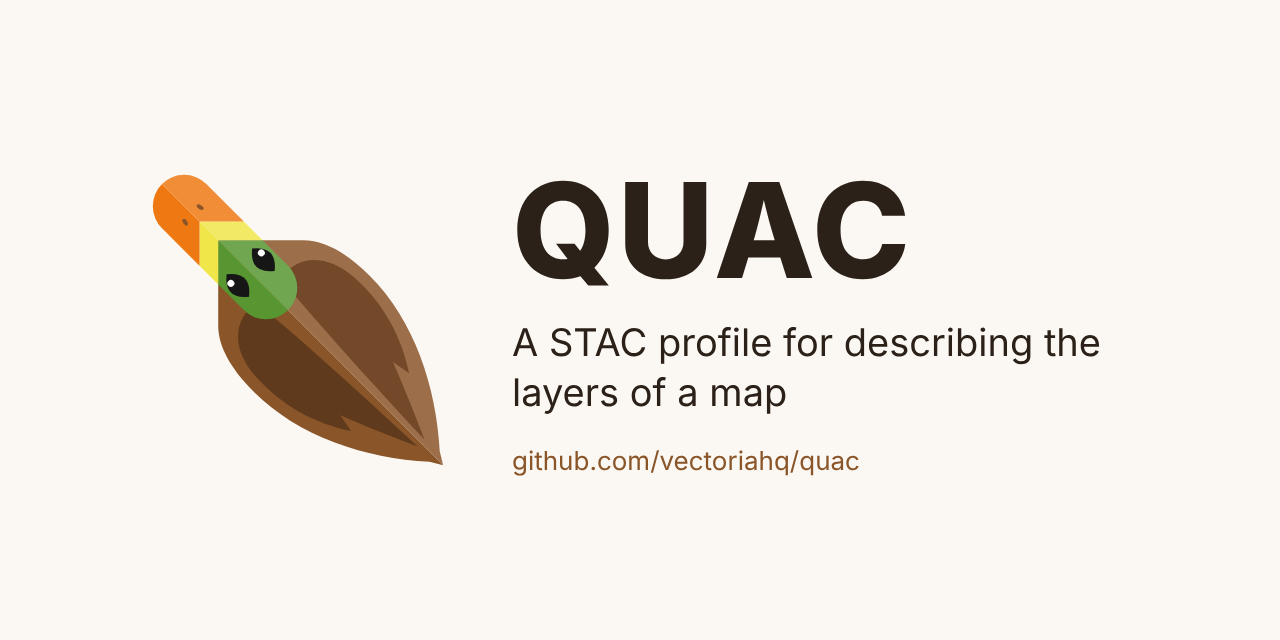
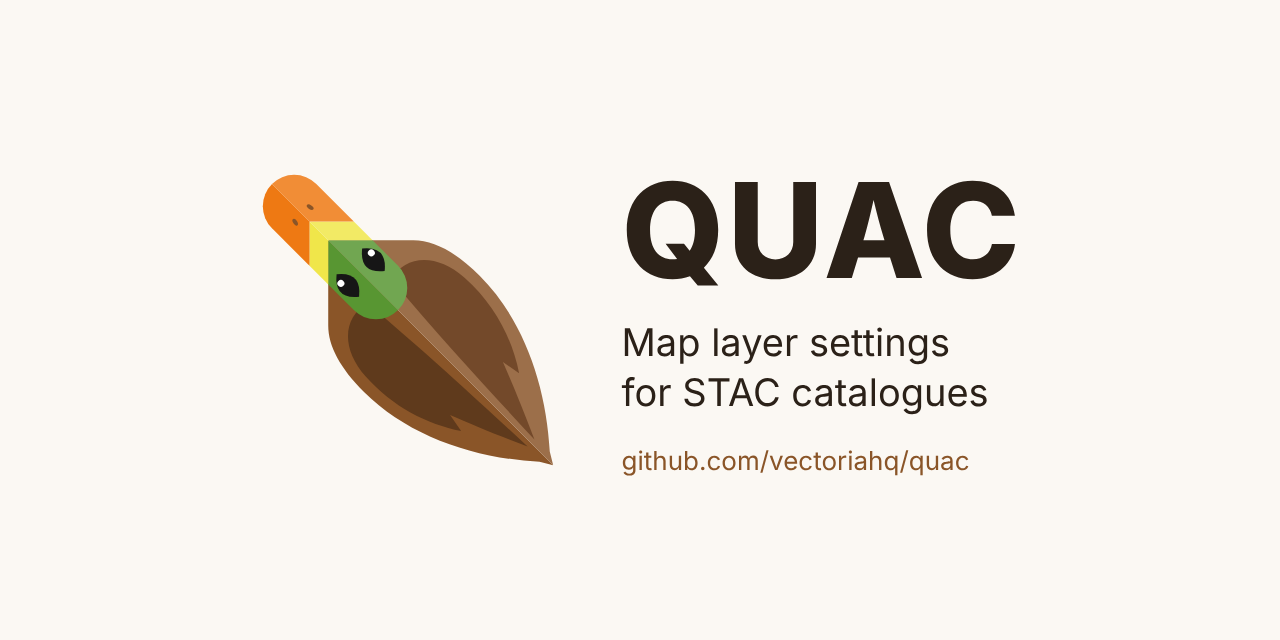
docs: one description, "map layer settings", and the spec without an application's name
- The README, the site, the package README, package.json, the plugin's metadata and the social image describe QUAC as adding map layer settings to STAC catalogues; package.json gains npm keywords, and the plugin's request detail moves to its About text.
- The field reference and three per-field examples say "a single application", "an application's reasons" and "QUAC's own variable" in place of a named application.
- npm test (830 passed) and npm run test:server pass.

Changed region(s): [[0.0938, 0.25, 0.875, 0.75], [0.4062, 0.2812, 0.8125, 0.4688]]

diff --git a/site/index.html b/site/index.html
@@ -4,7 +4,7 @@
 <meta charset="utf-8">
 <meta name="viewport" content="width=device-width, initial-scale=1">
 <title>QUAC</title>
-<meta name="description" content="QUAC is a profile of STAC 1.1.0 for describing the layers of a map.">
+<meta name="description" content="Map layer settings for STAC catalogues.">
 <link rel="icon" href="quac-mark.svg" type="image/svg+xml">
 <style>
   :root {
@@ -60,7 +60,7 @@
     <h1>QUAC</h1>
   </header>
 
-  <p>QUAC (Quite Useful Additions for Catalogs) is a profile of <a href="https://stacspec.org">STAC</a> 1.1.0 for describing the layers of a map: where each layer's data comes from, how its fields are filled in and checked, how it is drawn, and how its layers relate.</p>
+  <p>QUAC (Quite Useful Additions for Catalogs) is a profile of <a href="https://stacspec.org">STAC</a> 1.1.0 that adds map layer settings to a catalogue: how each layer is shown, how its fields are filled in and checked, and how its layers relate.</p>
   <p>A QUAC Collection is an ordinary STAC Collection with <code>quac:</code> fields added, so an application can read the fields it knows and ignore the rest.</p>
 
   <h2>Read and use it</h2>

diff --git a/packages/quac/spec/README.md b/packages/quac/spec/README.md
@@ -68,7 +68,7 @@ In this first stage the WFS, ArcGIS and OGC API Features producers take an appli
 
 **A producer states which fields it writes**, and is measured against its own list, not against every field this page defines.
 
-**Each field is stable or experimental.** A field is **experimental** where its meaning depends on one application, Groundwork, and **stable** where it restates a setting a source declares that other applications already act on, such as QGIS, QField, Mergin Maps or an ArcGIS client. Vectoria set this reading on 2026-11-05: no application but Groundwork read QUAC then, so a field read by only one application would otherwise make every field experimental. Some stable fields are marked **name under review**: their names and value shapes will be reviewed before QUAC's first release.
+**Each field is stable or experimental.** A field is **experimental** where its meaning depends on a single application, and **stable** where it restates a setting a source declares that other applications already act on, such as QGIS, QField, Mergin Maps or an ArcGIS client. Vectoria set this reading on 2026-11-05: only one application read QUAC then, so a field read by only one application would otherwise make every field experimental. Some stable fields are marked **name under review**: their names and value shapes will be reviewed before QUAC's first release.
 
 ## On a top-level Catalog
 
@@ -203,7 +203,7 @@ A layer read from ArcGIS:
 
 A QGIS project writes the first two for a layer read through QGIS's `arcgisfeatureserver` provider, with `quac:editable: false`. A source needing a sign-in or a header, or limited to a box, gets neither.
 
-Written by: ArcGIS; the first two also by QGIS project. `quac:arcgis_not_shown` is experimental, because its values are Groundwork's reasons for not loading a layer; the others are stable. Examples: `"https://services.arcgis.com/example/arcgis/rest/services/Species/FeatureServer/0"`, `"status = 'native'"`, `"not-a-feature-layer"`.
+Written by: ArcGIS; the first two also by QGIS project. `quac:arcgis_not_shown` is experimental, because its values are an application's reasons for not loading a layer, not ArcGIS's; the others are stable. Examples: `"https://services.arcgis.com/example/arcgis/rest/services/Species/FeatureServer/0"`, `"status = 'native'"`, `"not-a-feature-layer"`.
 
 ### Relations between layers
 
@@ -298,7 +298,7 @@ A name becomes the address of the icon's file in the library's npm package on js
 | `maki` | Maki | `@mapbox/maki` | 8 |
 | `temaki` | Temaki | `@rapideditor/temaki` | 5 |
 
-Written by: QGIS project. Experimental: the variable is Groundwork's own. Example: `"https://cdn.jsdelivr.net/npm/@tabler/icons@3/icons/outline/building-monument.svg"`, from the column entry, since the example file has none on a Collection.
+Written by: QGIS project. Experimental: the variable is QUAC's own. Example: `"https://cdn.jsdelivr.net/npm/@tabler/icons@3/icons/outline/building-monument.svg"`, from the column entry, since the example file has none on a Collection.
 
 #### `quac:light_style` and `quac:dark_style`
 
@@ -479,13 +479,13 @@ Written by: QGIS project. Stable. Example: `"\"last_inspected\" IS NULL"`.
 
 The `https://` address of an icon drawn beside the field's name. From a layer variable named `quac_icon_` followed by the field's name, held in the layer's `variableNames` and `variableValues` custom properties (`QgsExpressionContextUtils::setLayerVariable`, `src/core/expression/qgsexpressioncontextutils.cpp`), including the form from before QGIS 3.20 (`src/core/qgsobjectcustomproperties.cpp`, read 2026-10-25). The value becomes an address as the Collection's `quac:icon` does. QGIS's own form shows no icon.
 
-Written by: QGIS project. Experimental: the variable is Groundwork's own. Example: `"https://cdn.jsdelivr.net/npm/@tabler/icons@3/icons/outline/building-monument.svg"`.
+Written by: QGIS project. Experimental: the variable is QUAC's own. Example: `"https://cdn.jsdelivr.net/npm/@tabler/icons@3/icons/outline/building-monument.svg"`.
 
 ### `quac:control`
 
 How the edit form draws the field's list of choices: `buttons` or `dropdown`. From a layer variable named `quac_control_` followed by the field's name, held in the same lists as `quac:icon`'s, compared without regard to case or surrounding spaces; any other value writes nothing. QGIS's own form has no such setting: a Value Map is always a combo box (`src/ui/editorwidgets/qgsvaluemapconfigdlgbase.ui`, read 2026-10-26).
 
-Written by: QGIS project. Experimental: the variable is Groundwork's own. Example: `"buttons"`.
+Written by: QGIS project. Experimental: the variable is QUAC's own. Example: `"buttons"`.
 
 ### `quac:value_relation`
 

diff --git a/packages/quac/README.md b/packages/quac/README.md
@@ -1,6 +1,6 @@
 # @vectoriahq/quac
 
-The JavaScript package for [QUAC](https://github.com/vectoriahq/quac), a profile of STAC 1.1.0 for describing the layers of a map: where each layer's data comes from, how its fields are filled in and checked, how it is drawn, and how its layers relate.
+Writes and reads [QUAC](https://github.com/vectoriahq/quac), which adds map layer settings to STAC 1.1.0 catalogues: how each layer is shown, how its fields are filled in and checked, and how its layers relate.
 
 The package writes QUAC catalogues from QGIS projects and other sources, and reads them back. It makes no network request: it builds a catalogue from what an application has already fetched, such as a QGIS project's text or a QGIS Server GetProjectSettings response.
 

diff --git a/packages/quac/spec/examples/control/README.md b/packages/quac/spec/examples/control/README.md
@@ -1,6 +1,6 @@
 # `quac:control`
 
-**The QGIS setting:** a layer variable named `quac_control_species`, set to `buttons` under **Variables** in the Trees layer's Layer Properties. The variable is Groundwork's own; QGIS's own form has no such setting.
+**The QGIS setting:** a layer variable named `quac_control_species`, set to `buttons` under **Variables** in the Trees layer's Layer Properties. The variable is QUAC's own; QGIS's own form has no such setting.
 
 **What the project file holds:** the layer's `variableNames` and `variableValues` custom properties, holding `quac_control_species` and `buttons`.
 

diff --git a/packages/quac/spec/examples/column-icon/README.md b/packages/quac/spec/examples/column-icon/README.md
@@ -1,6 +1,6 @@
 # `quac:icon` on a column
 
-**The QGIS setting:** a layer variable named `quac_icon_species`, set to `leaf` under **Variables** in the Trees layer's Layer Properties. The variable is Groundwork's own; QGIS's form shows no such icon.
+**The QGIS setting:** a layer variable named `quac_icon_species`, set to `leaf` under **Variables** in the Trees layer's Layer Properties. The variable is QUAC's own; QGIS's form shows no such icon.
 
 **What the project file holds:** the layer's `variableNames` and `variableValues` custom properties, holding `quac_icon_species` and `leaf`.
 

diff --git a/packages/quac/spec/examples/layer-icon/README.md b/packages/quac/spec/examples/layer-icon/README.md
@@ -1,6 +1,6 @@
 # `quac:icon` on a Collection
 
-**The QGIS setting:** a layer variable named `quac_icon`, set to `tree` under **Variables** in the Trees layer's Layer Properties. The variable is Groundwork's own; QGIS's layer list shows no such icon.
+**The QGIS setting:** a layer variable named `quac_icon`, set to `tree` under **Variables** in the Trees layer's Layer Properties. The variable is QUAC's own; QGIS's layer list shows no such icon.
 
 **What the project file holds:** the layer's `variableNames` and `variableValues` custom properties, holding `quac_icon` and `tree`.
 

diff --git a/README.md b/README.md
@@ -2,7 +2,7 @@
 
 # QUAC
 
-QUAC (Quite Useful Additions for Catalogs) is a profile of [STAC](https://stacspec.org) 1.1.0 for describing the layers of a map: where each layer's data comes from, how its fields are filled in and checked, how it is drawn, and how its layers relate. It is made by Vectoria.
+QUAC (Quite Useful Additions for Catalogs) is a profile of [STAC](https://stacspec.org) 1.1.0 that adds map layer settings to a catalogue. Vectoria makes it.
 
 **What QUAC lets you know about a catalogue**
 
